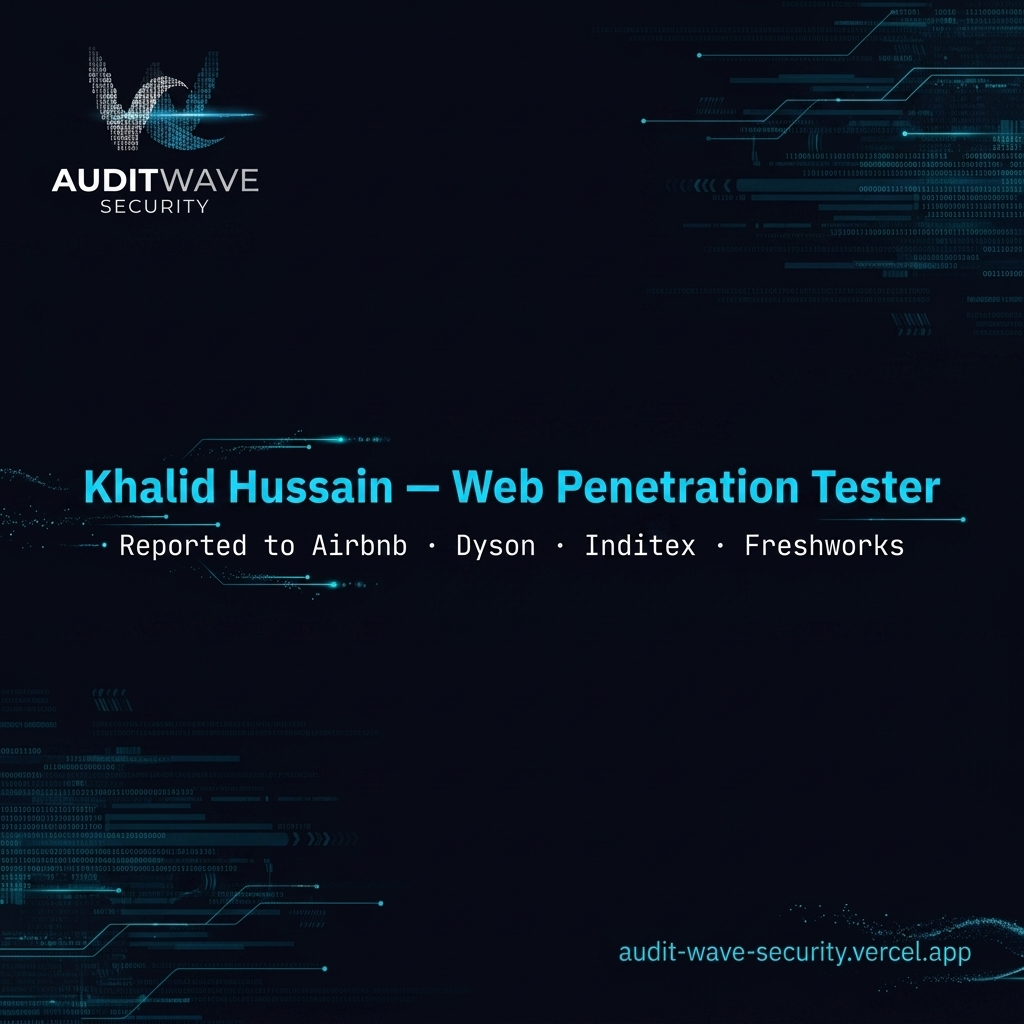
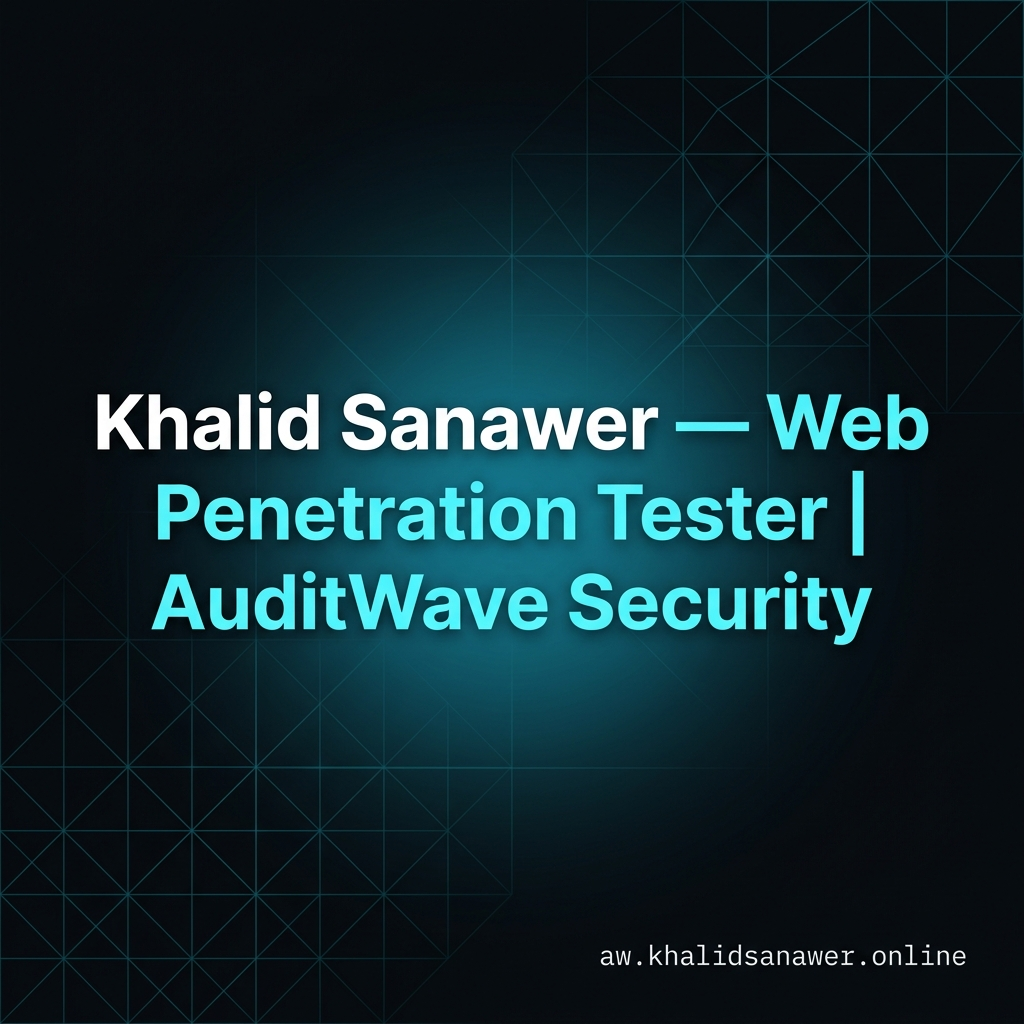
feat: add SEO metadata, sitemap, robots.txt, JSON-LD schema, and contact component

diff --git a/components/Contact.tsx b/components/Contact.tsx
@@ -13,7 +13,7 @@ export default function Contact() {
         <p className="text-muted text-[16px] mb-10 leading-[1.7]">
           Need a penetration test, security audit, or bug bounty collaboration? I bring thoroughness, professionalism, and a hacker&apos;s eye to every engagement.
         </p>
-        <a href="mailto:khalid@example.com" className="inline-flex items-center gap-2 bg-accent text-black font-mono text-[12px] font-bold tracking-[2px] uppercase py-3.5 px-7 rounded-[3px] transition-all duration-200 hover:bg-white hover:-translate-y-0.5 hover:shadow-[0_8px_24px_rgba(0,212,255,0.3)]">
+        <a href="mailto:security@khalidsanawer.online" className="inline-flex items-center gap-2 bg-accent text-black font-mono text-[12px] font-bold tracking-[2px] uppercase py-3.5 px-7 rounded-[3px] transition-all duration-200 hover:bg-white hover:-translate-y-0.5 hover:shadow-[0_8px_24px_rgba(0,212,255,0.3)]">
           <Mail size={18} /> Send a Message<span className="inline-block w-[10px] h-[1.1em] bg-accent align-middle ml-1 animate-blink"></span>
         </a>
       </div>

diff --git a/app/layout.tsx b/app/layout.tsx
@@ -28,7 +28,7 @@ export const viewport: Viewport = {
 };
 
 export const metadata: Metadata = {
-  metadataBase: new URL("https://audit-wave-security.vercel.app"),
+  metadataBase: new URL("https://aw.khalidsanawer.online"),
   title: "Khalid Sanawer — Web Penetration Tester | AuditWave Security",
   description: "3+ years, 1200+ targets tested. Reported vulnerabilities to Airbnb, Dyson, Inditex, Freshworks. Bug bounty researcher & freelance pentester.",
   keywords: ["Web Penetration Tester", "Bug Bounty Hunter", "Cybersecurity Audit", "Ethical Hacker", "AuditWave Security", "Security Researcher"],
@@ -46,7 +46,7 @@ export const metadata: Metadata = {
   openGraph: {
     title: "Khalid Sanawer — Web Penetration Tester | AuditWave Security",
     description: "3+ years, 1200+ targets tested. Reported vulnerabilities to Airbnb, Dyson, Inditex, Freshworks. Bug bounty researcher & freelance pentester.",
-    url: "https://audit-wave-security.vercel.app",
+    url: "https://aw.khalidsanawer.online",
     siteName: "AuditWave Security",
     images: [
       {

diff --git a/components/JsonLd.tsx b/components/JsonLd.tsx
@@ -4,12 +4,12 @@ export default function JsonLd() {
     "@type": ["Person", "ProfessionalService"],
     "name": "Khalid Sanawer",
     "jobTitle": "Web Penetration Tester",
-    "url": "https://audit-wave-security.vercel.app",
-    "image": "https://audit-wave-security.vercel.app/wave.webp",
+    "url": "https://aw.khalidsanawer.online",
+    "image": "https://aw.khalidsanawer.online/wave.webp",
     "sameAs": [
       "https://hackerone.com/cyberarmor72",
       "https://bugcrowd.com/cyberarmor72",
-      "https://audit-wave-security.vercel.app"
+      "https://aw.khalidsanawer.online"
     ],
     "description": "Professional Web Penetration Tester & Security Researcher specializing in deep target enumeration and manual-first methodology.",
     "address": {
@@ -19,7 +19,7 @@ export default function JsonLd() {
     "brand": {
       "@type": "Brand",
       "name": "AuditWave Security",
-      "logo": "https://audit-wave-security.vercel.app/wave.webp"
+      "logo": "https://aw.khalidsanawer.online/wave.webp"
     }
   };
 

diff --git a/app/robots.ts b/app/robots.ts
@@ -7,6 +7,6 @@ export default function robots(): MetadataRoute.Robots {
       allow: '/',
       disallow: '/private/',
     },
-    sitemap: 'https://audit-wave-security.vercel.app/sitemap.xml',
+    sitemap: 'https://aw.khalidsanawer.online/sitemap.xml',
   }
 }

diff --git a/app/sitemap.ts b/app/sitemap.ts
@@ -1,7 +1,7 @@
 import { MetadataRoute } from 'next'
  
 export default function sitemap(): MetadataRoute.Sitemap {
-  const baseUrl = 'https://audit-wave-security.vercel.app'
+  const baseUrl = 'https://aw.khalidsanawer.online'
   
   return [
     {

diff --git a/public/google6550677e3b7f2544.html b/public/google6550677e3b7f2544.html
@@ -1,0 +1,1 @@
+google-site-verification: google6550677e3b7f2544.html
